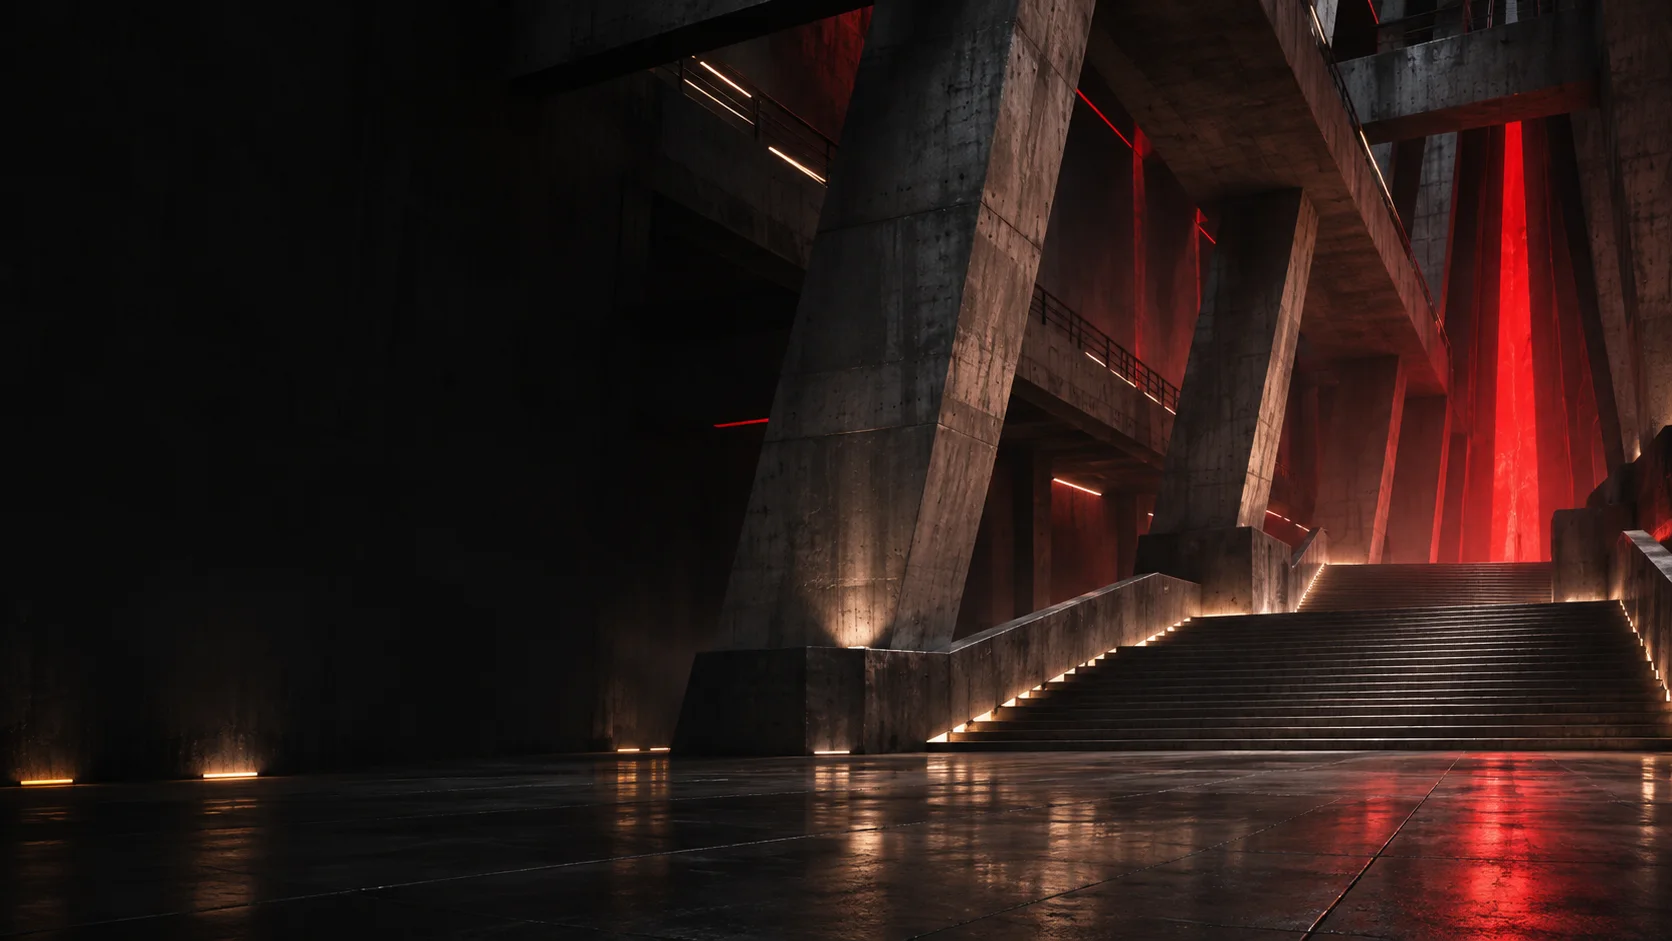
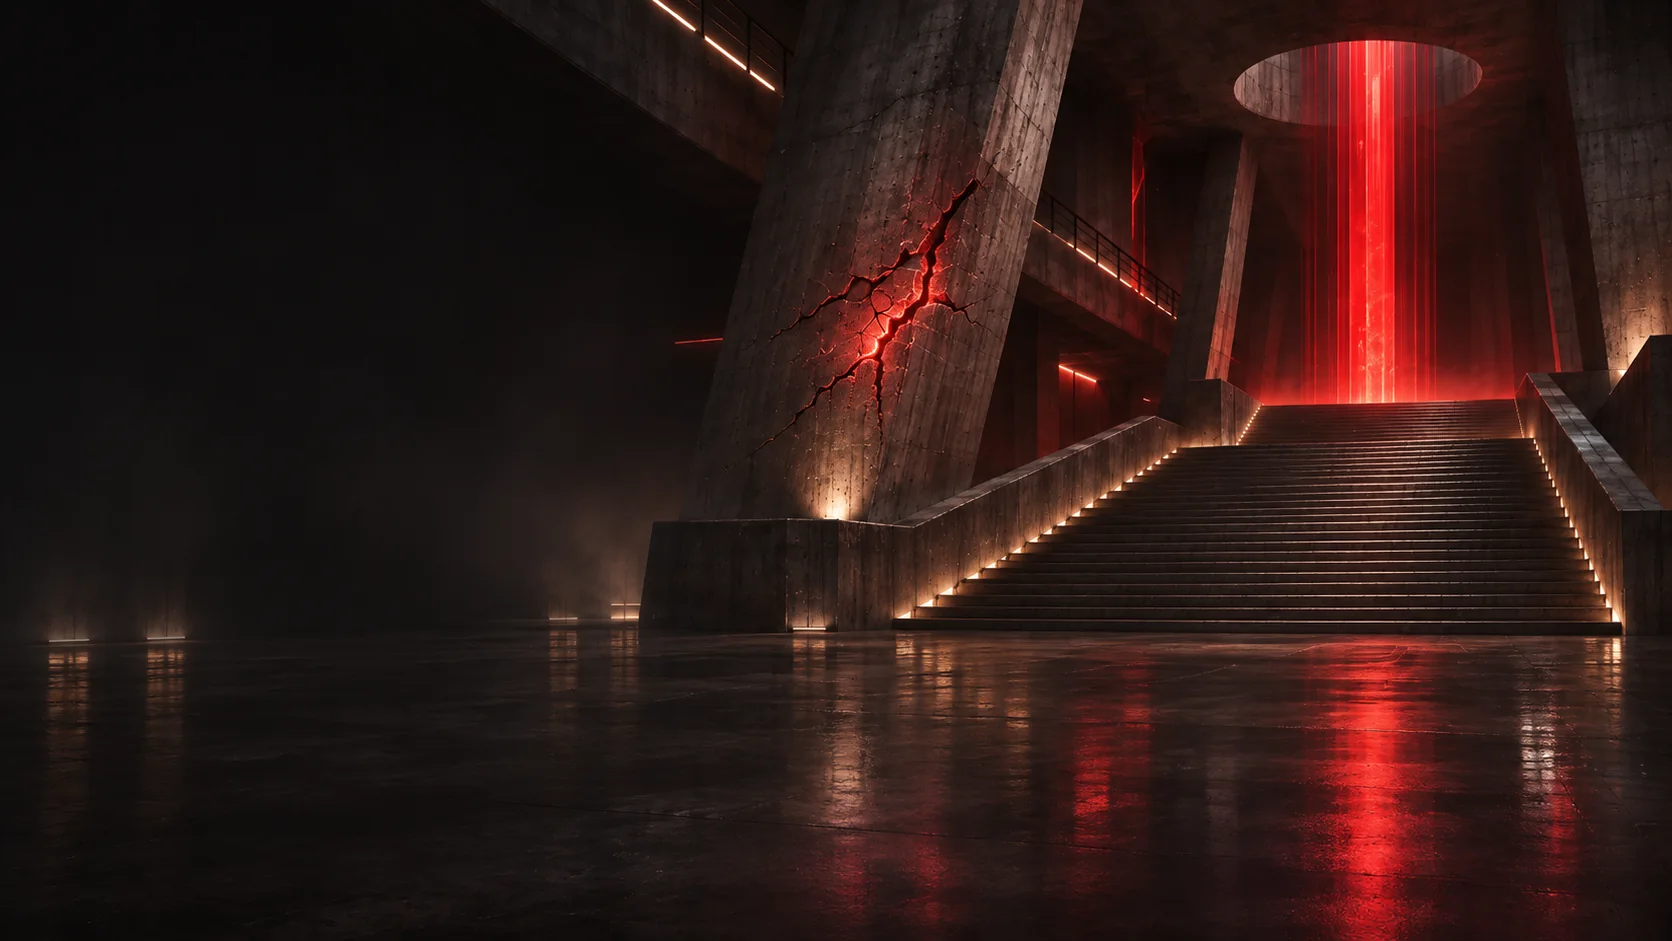
Átrio com a arte do GPT: fissura carmesim no pilar como a falha
Nova arte do hero gerada no ChatGPT (só a cena, sem interface), com mapa de
profundidade novo (tools/profundidade.py: Depth Anything V2 Small, na escala dos
mapas existentes). A mira e o diagnóstico da abertura caem na fissura; os feixes
saem do reflexo do feixe no piso.

Claude-Session: https://claude.ai/code/session_01MZKcL2gswLLGSYknwLLCd6

diff --git a/src/components/Profundidade.tsx b/src/components/Profundidade.tsx
@@ -159,7 +159,7 @@ void main(){
     float longe2 = 1. - d;
     float mat = smoothstep(thr, thr - .09, longe2);
     vec3 fim = mix(pre, c, mat);
-    fim += carmim * smoothstep(.035, 0., abs(longe2 - thr)) * (1. - smoothstep(4.5, 4.8, A)) * step(3.5, A) * .9;
+    fim += carmim * smoothstep(.018, 0., abs(longe2 - thr)) * (1. - smoothstep(4.5, 4.8, A)) * step(3.5, A) * .9;
     c = fim;
   }
 
@@ -172,8 +172,8 @@ void main(){
 type Props = { arte: string; prof: string; x?: number; fase?: number; atrio?: boolean };
 
 // Pontos da arte do átrio (em coordenadas da textura, y de baixo para cima)
-const ALVO: [number, number] = [0.545, 0.6];   // o pilar onde a "falha" é encontrada
-const ORIGEM: [number, number] = [0.9, 0.41];   // pé do feixe carmesim, no alto da escada: de onde saem os feixes
+const ALVO: [number, number] = [0.535, 0.67];  // a fissura carmesim no pilar: a "falha" que a inspeção encontra
+const ORIGEM: [number, number] = [0.81, 0.33];  // reflexo do feixe carmesim no piso, ao pé da escada: de onde saem os feixes
 const FIM_ABRE = 5.3;
 const FASES = [1, 2.3, 3.5, 4.7];
 const suave = (a: number, b: number, x: number) => { const t = Math.min(1, Math.max(0, (x - a) / (b - a))); return t * t * (3 - 2 * t); };

diff --git a/tools/profundidade.py b/tools/profundidade.py
@@ -1,0 +1,24 @@
+"""Gera o mapa de profundidade de uma arte (Depth Anything V2 Small), no formato que Profundidade.tsx lê.
+
+Uso: python tools/profundidade.py public/img/mono/hero.webp public/img/mono/hero-prof.webp
+Saída: metade da resolução da arte, tons de cinza (claro = perto), webp, na escala dos mapas já usados.
+"""
+import sys
+
+import numpy as np
+
+from PIL import Image, ImageFilter
+from transformers import pipeline
+
+entrada, saida = sys.argv[1], sys.argv[2]
+arte = Image.open(entrada).convert('RGB')
+estimador = pipeline('depth-estimation', model='depth-anything/Depth-Anything-V2-Small-hf')
+prof = estimador(arte)['depth'].convert('L')
+# mesma escala dos mapas existentes: estica de 1% a 99,5% e aplica gama 0,55 (mediana perto de 0,33)
+x = np.asarray(prof, dtype=np.float32) / 255
+lo, hi = np.percentile(x, 1), np.percentile(x, 99.5)
+x = np.clip((x - lo) / max(hi - lo, 1e-6), 0, 1) ** 0.55
+prof = Image.fromarray((x * 255).round().astype(np.uint8))
+prof = prof.resize((arte.width // 2, arte.height // 2), Image.LANCZOS).filter(ImageFilter.GaussianBlur(0.6))
+prof.convert('RGB').save(saida, 'WEBP', quality=90)
+print(saida, prof.size)
